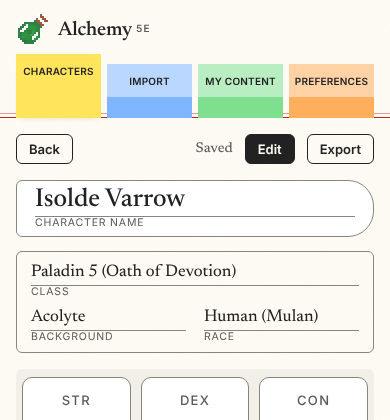
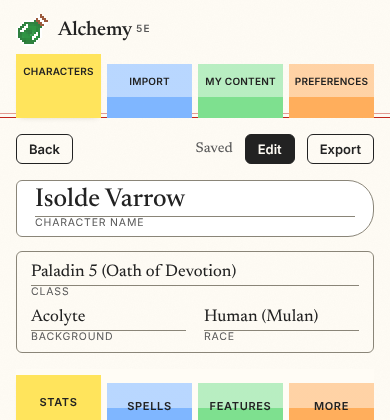
ORC-174: Describe the action row in the theme spec
Claude-Session: https://claude.ai/code/session_01CsPnW7vMQLd8ipcTuN9Wtb

Changed region(s): [[0.0308, 0.8667, 0.9846, 1.0]]

diff --git a/docs/design/theme.md b/docs/design/theme.md
@@ -361,6 +361,24 @@ Layout F (ORC-145, ORC-153). Two columns at about 1 : 2, max width 960px.
 Labels are under values. Under 720px, the sections go in tabs (see Small
 screens and motion).
 
+## Action row
+
+One row of buttons above the sheet header (ORC-174). The builder has the
+same row.
+
+* On the left, "Back to List", a ghost button. It always goes to
+  `/characters`. When the row is narrower than 720px, it shows "Back". Its
+  accessible name stays "Back to List".
+* On the right, from the inside out: the save status ("Saved" or "Unsaved
+  changes") in muted text, a small ghost Save button while there are
+  unsaved changes, then the page actions. On the sheet, these are a solid
+  Edit (to the builder) and a ghost Export. In the builder, it is a solid
+  Done (to the sheet).
+* Back to List, Edit and Done are links with the look of buttons
+  (`ButtonLink`). Export is a button.
+* When unsaved changes come back from a draft, a blue info note under the
+  row says so.
+
 ## Header
 
 * A name box that fits the name.
@@ -447,8 +465,8 @@ The phone layout of the character sheet is ORC-173. These rules apply:
 
 * When the sheet is narrower than 720px, its sections go in four tabs. At
   720px and wider, the sheet is layout F.
-* The sheet header and the Build and Export links are above the tabs, and
-  scroll away. The tab row sticks to the top of the page.
+* The action row and the sheet header are above the tabs, and scroll
+  away. The tab row sticks to the top of the page.
 * The tabs, in order:
   1. **Stats:** AC, initiative and speed, hit points, hit dice and death
      saves, then Attacks, then the ability column (abilities, inspiration,
